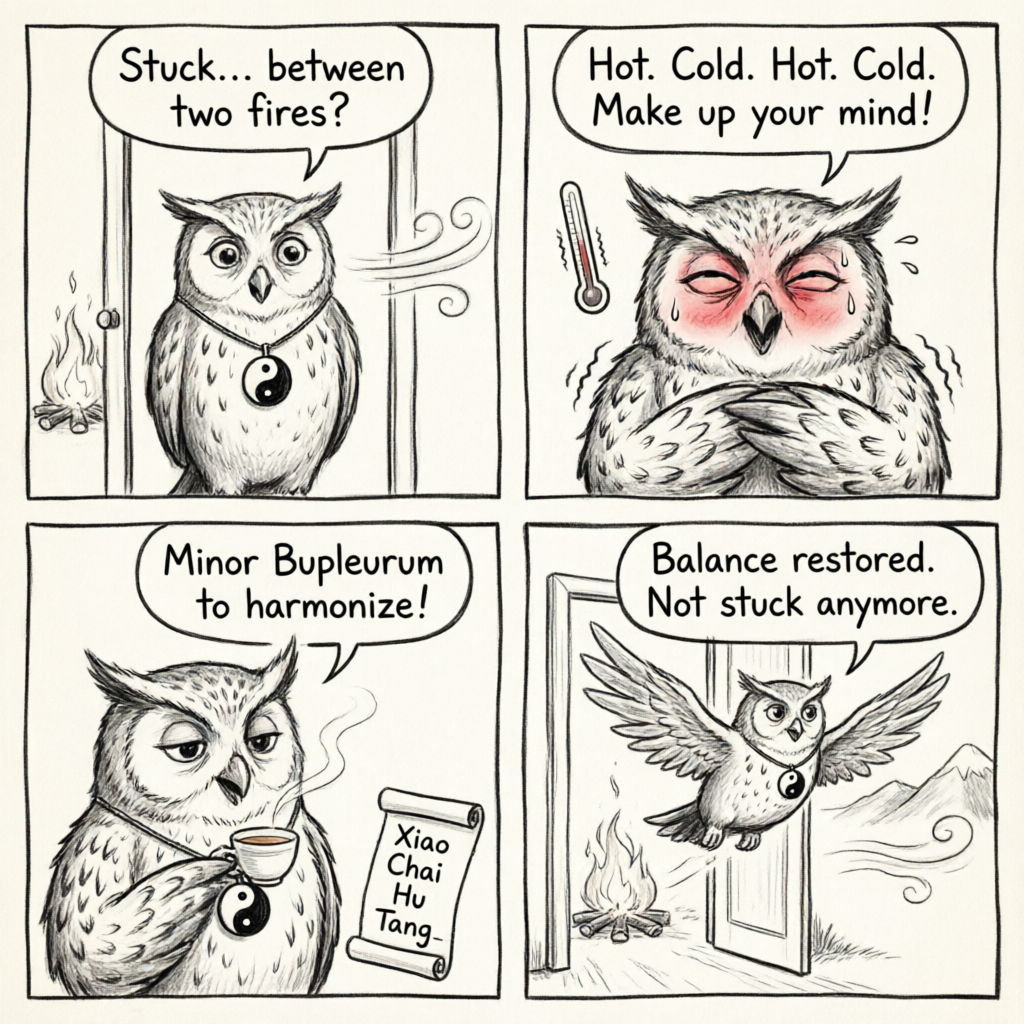
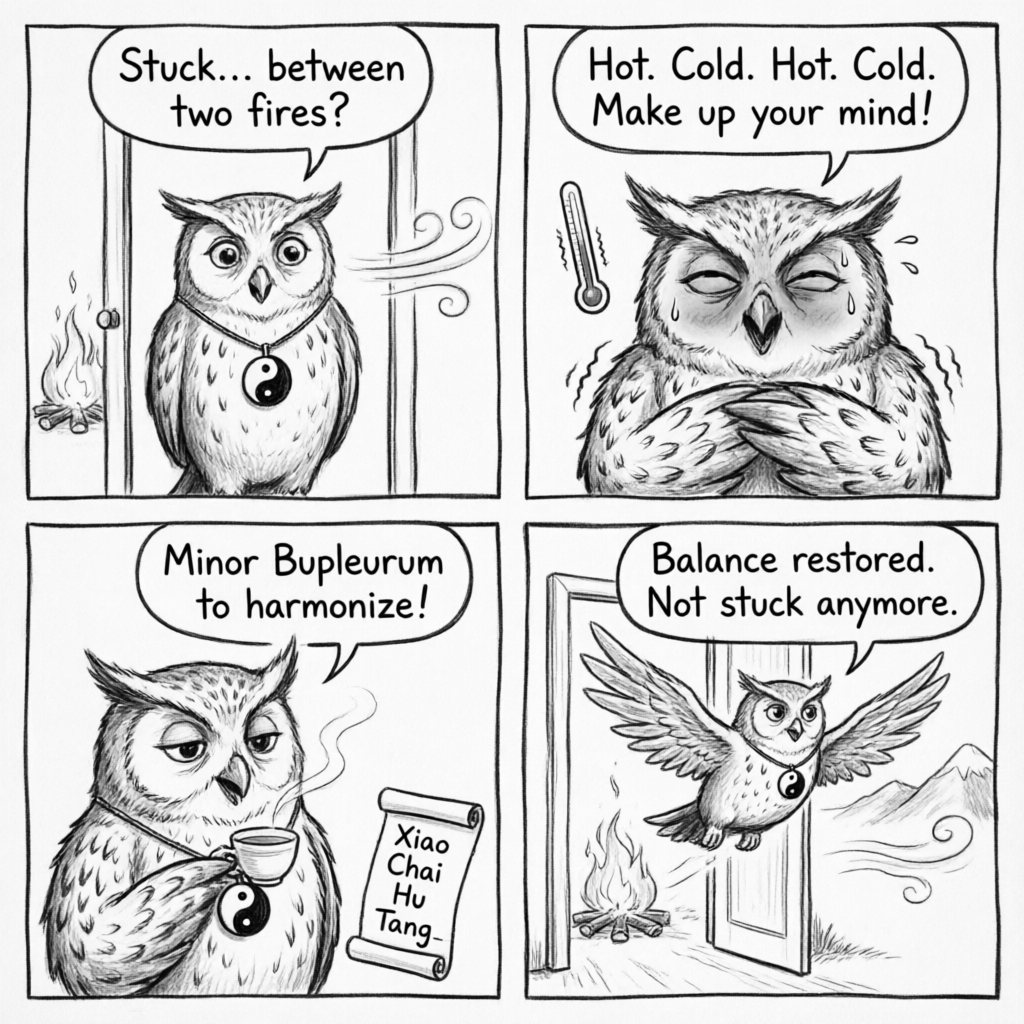
fix #24: comic转灰度(54%→0%着色,562KB), pivotal去重

Changed region(s): [[0.6562, 0.25, 0.8438, 0.3438], [0.5625, 0.25, 0.5938, 0.2812], [0.25, 0.8125, 0.2812, 0.8438]]

diff --git a/posts/24-when-your-body-is-stuck-between-two-fires.html b/posts/24-when-your-body-is-stuck-between-two-fires.html
@@ -110,7 +110,7 @@
 
 <p>But when the pathogen pushes back and your Qi retreats for a moment to regroup, you suddenly feel a bone-chilling cold. The front line of the battle has momentarily shifted, and your body's warming functions are disrupted. This back-and-forth wrestling match is what creates that signature roller-coaster feeling.</p>
 
-<p>It's a frustrating experience, but it gives your practitioner a huge clue. This specific pattern tells us exactly where the fight is happening — not on the surface, and not deep in the interior, but right at that pivotal Shao Yang hinge.</p>
+<p>It's a frustrating experience, but it gives your practitioner a huge clue. This specific pattern tells us exactly where the fight is happening — not on the surface, and not deep in the interior, but right at the Shao Yang hinge.</p>
 
 <h2>The Telltale Signs: Bitter Taste, Dry Throat, and More</h2>
 
